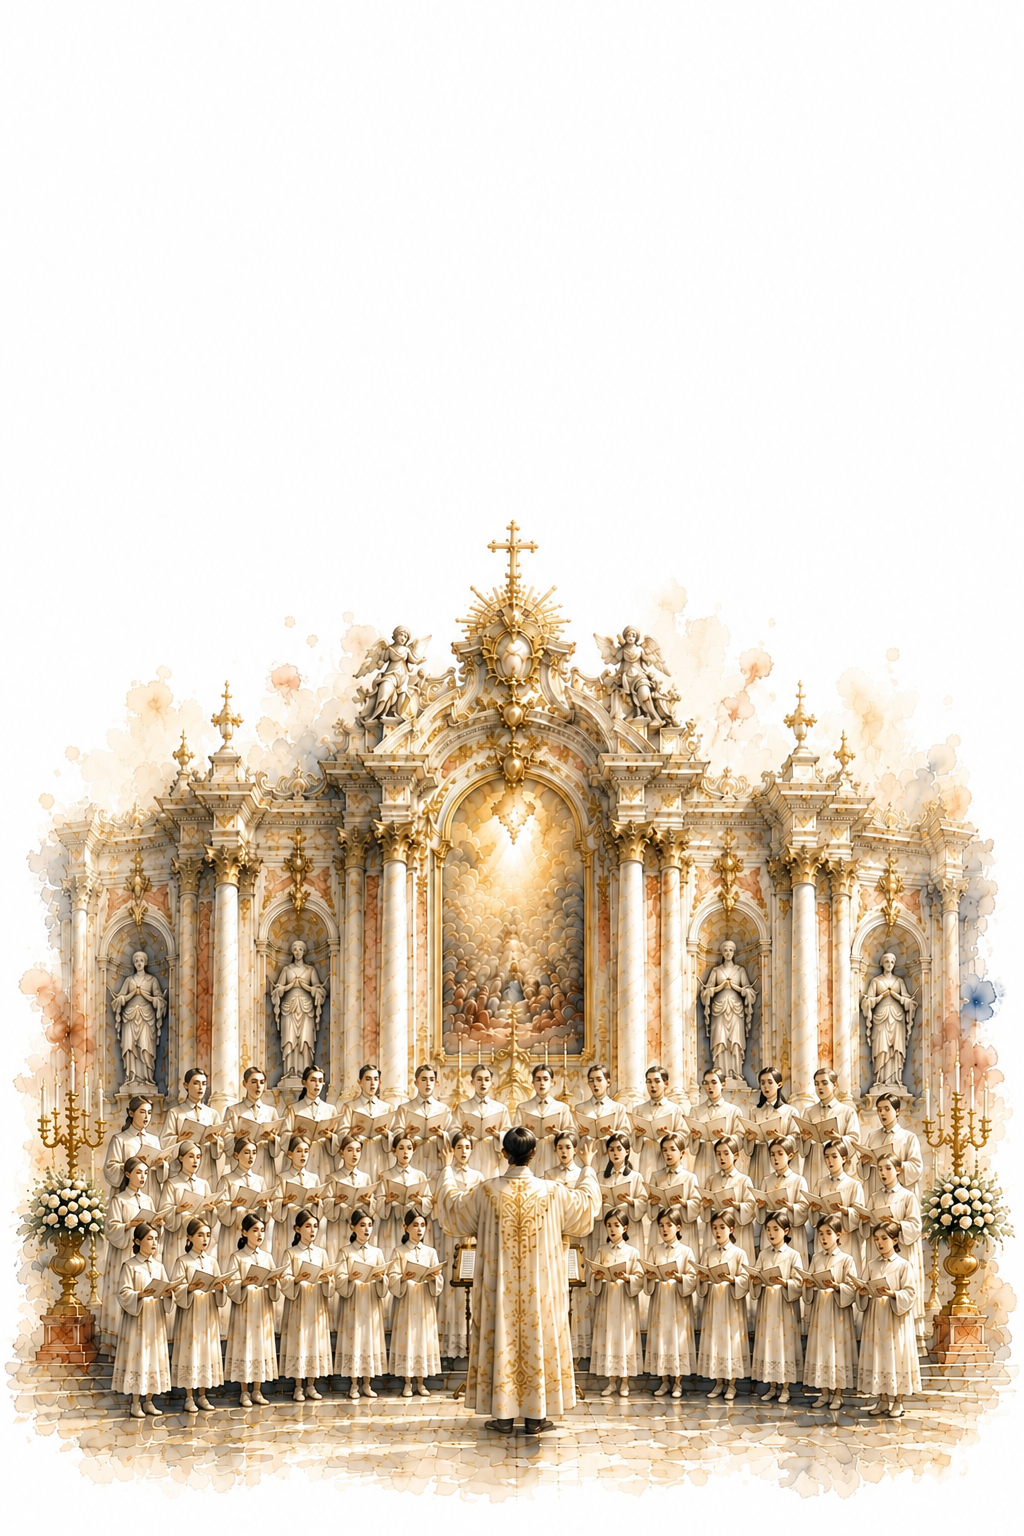
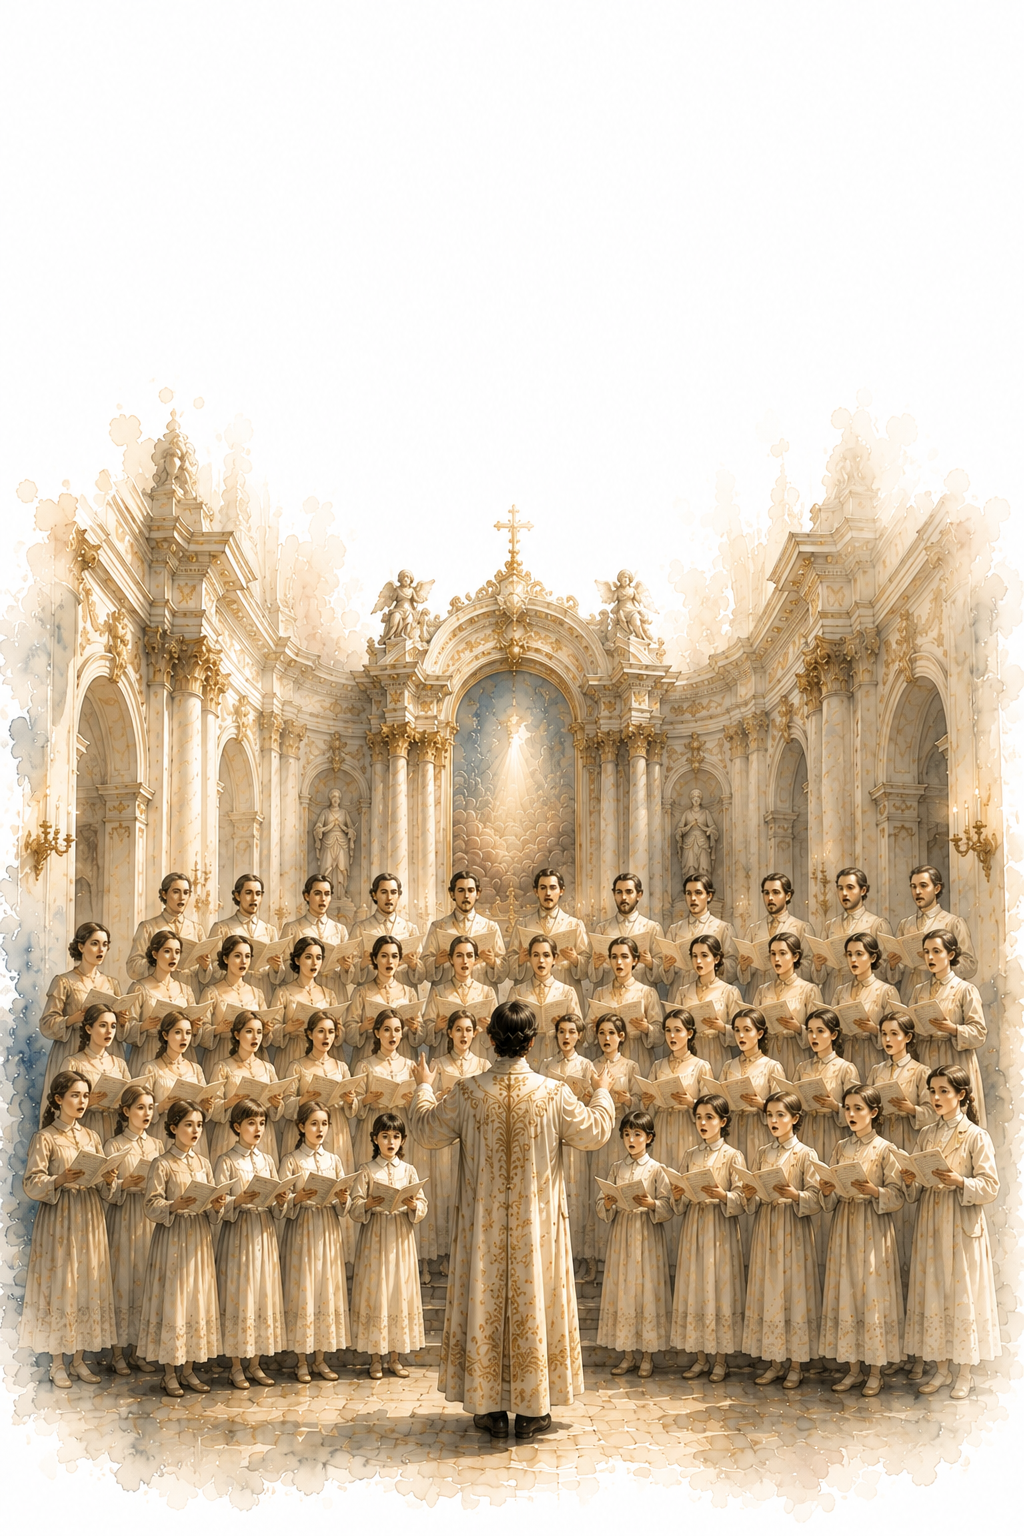
Aggiorna immagine degli oratori

diff --git a/nuclei/barocco/argomenti/il-barocco-in-coordinate/index.html b/nuclei/barocco/argomenti/il-barocco-in-coordinate/index.html
@@ -16,7 +16,7 @@
     <link rel="stylesheet" href="../../../../css/barocco-coordinate-responsive.css?v=20260523-scroll-unclip-v2">
     <link rel="stylesheet" href="../../../../css/barocco-lesson-layout-final.css?v=1779532949">
     <link rel="stylesheet" href="../../../../css/barocco-editorial-bands.css?v=1779532949">
-    <link rel="stylesheet" href="../../../../css/barocco-key-concepts.css?v=20260523-key-concepts-static-large-v30">
+    <link rel="stylesheet" href="../../../../css/barocco-key-concepts.css?v=20260523-key-concepts-static-large-v31">
     <link rel="stylesheet" href="../../../../css/barocco-typography-unified.css?v=1779532949">
 </head>
 <body data-nav="timeline" data-current-nucleus="barocco">
@@ -126,7 +126,7 @@
 
         mountLessonBand(
             "barocco-key-concepts-root",
-            () => import("../../../../components/BaroccoKeyConcepts.module.js?v=20260523-key-concepts-static-large-v30")
+            () => import("../../../../components/BaroccoKeyConcepts.module.js?v=20260523-key-concepts-static-large-v31")
         );
     </script>
 </body>